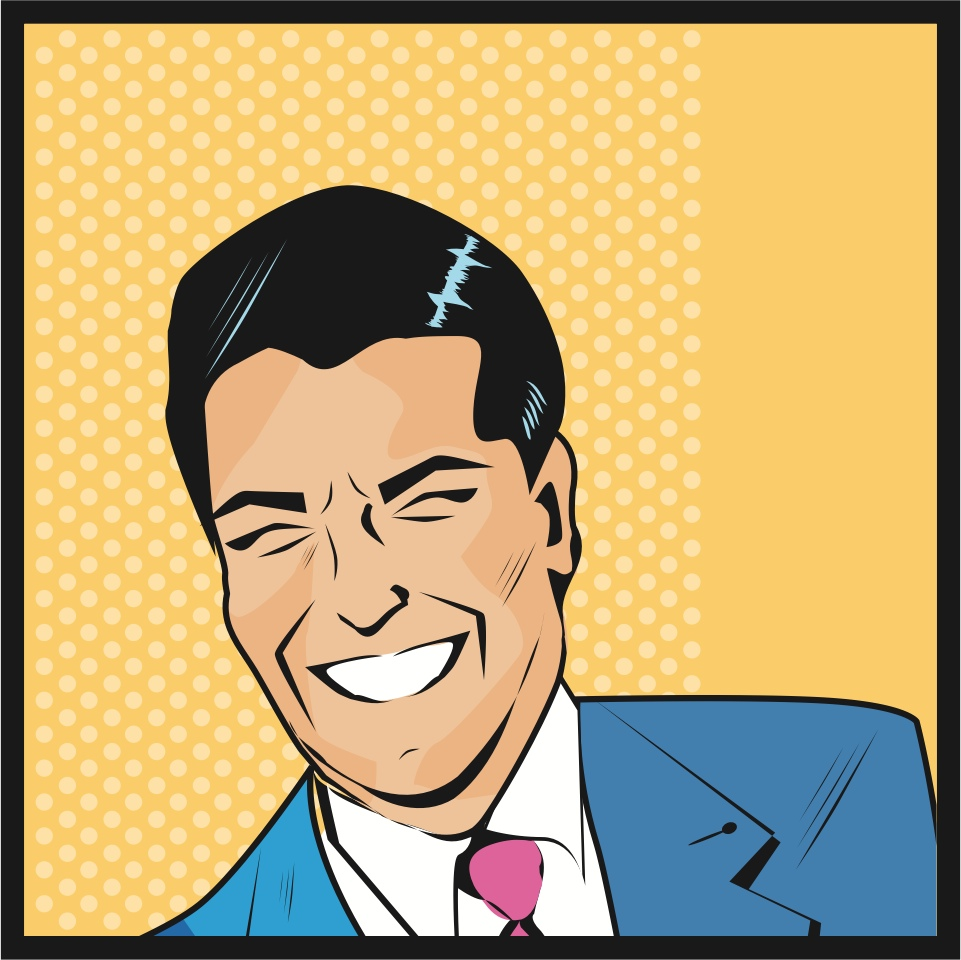
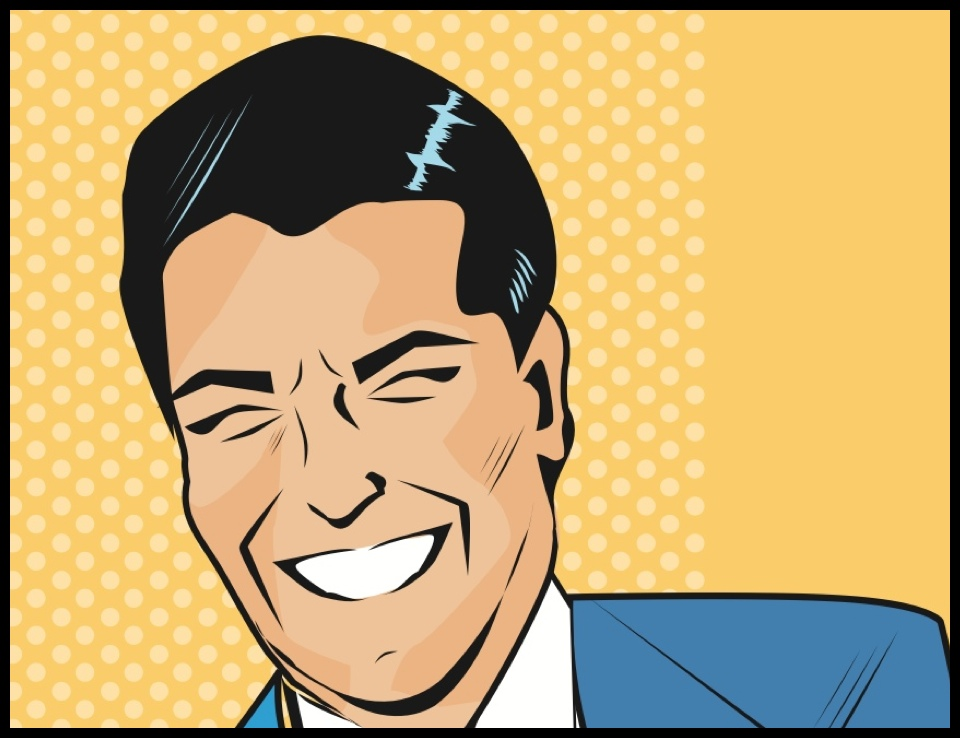
User edit now working

diff --git a/app/assets/stylesheets/application.css b/app/assets/stylesheets/application.css
@@ -7,7 +7,9 @@
   margin: 0 auto;
   display: block;
 }
-
+#home_header {
+  margin-left: 30px;
+}
 .results {
   max-width: 960px;
   min-height: 620px;
@@ -20,7 +22,9 @@
   text-shadow: 0 0 10px black;
 }
 .results#good {
-  padding: 60px;
+  padding: 40px;
+  color: white;
+  text-shadow: 0 0 10px black;
 }
 .results#perfect {
   color: white;
@@ -49,8 +53,8 @@ h1, h2, nav a {
 }
 nav {
   background-color: #D0006E;
-  padding: 10px 30px 10px 30px;
-  border: 3px solid black;
+  padding: 10px 30px 10px 20px;
+  border: 6px solid black;
 }
 nav a:hover {
   color: #FFB540;
@@ -61,11 +65,16 @@ nav a {
   color: white;
   text-shadow: 0 0 10px black;
   margin-right: 15px;
+  font-size: 18px;
 }
 footer {
   font-family: 'Lobster', cursive;
-  position:absolute;
-  bottom:15px;
+  position: relative;
+  bottom: 0;
+  right: 50px;
   width:100%;
-  background: solid white;
+  text-align: right;
+}
+footer a {
+  color: #387AA8;
 }

diff --git a/app/assets/stylesheets/users.css.scss b/app/assets/stylesheets/users.css.scss
@@ -7,7 +7,7 @@
 #user_sidenav {
   position: absolute;
   top: 200px;
-  right: 50px;
+  right: 120px;
   width: 250px;
   height: 150px;
   border: 5px solid black;
@@ -35,7 +35,7 @@
   margin: 10px;
 }
 #user_container {
-  background: url(/assets/good.jpg) no-repeat;
+  background: url(/assets/user.jpg) no-repeat;
   background-size: contain;
   min-height: 960px;
 }

diff --git a/app/assets/stylesheets/pages.css.scss b/app/assets/stylesheets/pages.css.scss
@@ -1,7 +1,7 @@
 #home {
   background: url("/assets/index_pages.jpg") no-repeat;
   background-size: contain;
-  height: 800px;
+  height: 500px;
   min-width: 900px;
   padding: 25px;
 }

diff --git a/app/helpers/application_helper.rb b/app/helpers/application_helper.rb
@@ -3,7 +3,7 @@ module ApplicationHelper
     links = ''
     if @current_user
       
-      links += "#{link_to('Your custom page ' + @current_user.name,  user_path(@current_user.id)) } #{link_to('Log out ' , login_path, :method => :delete, :confirm => 'Really log out?') } 
+      links += "#{link_to(@current_user.name  + "'s custom page"  ,  user_path(@current_user.id)) } #{link_to('Log out ' , login_path, :method => :delete, :confirm => 'Really log out?') } 
       "
     else
       links += "#{ link_to('Register', new_user_path) } #{ link_to('Login', login_path) }"

diff --git a/app/controllers/users_controller.rb b/app/controllers/users_controller.rb
@@ -52,8 +52,14 @@ class UsersController < ApplicationController
   end
 
   def edit
+    @user = User.find params[:id]
+    
   end
+  
   def update
+    user = User.find params[:id]
+    user.update_attributes params[:user]
+    redirect_to user_path(@current_user.id)
   end
 
   private
